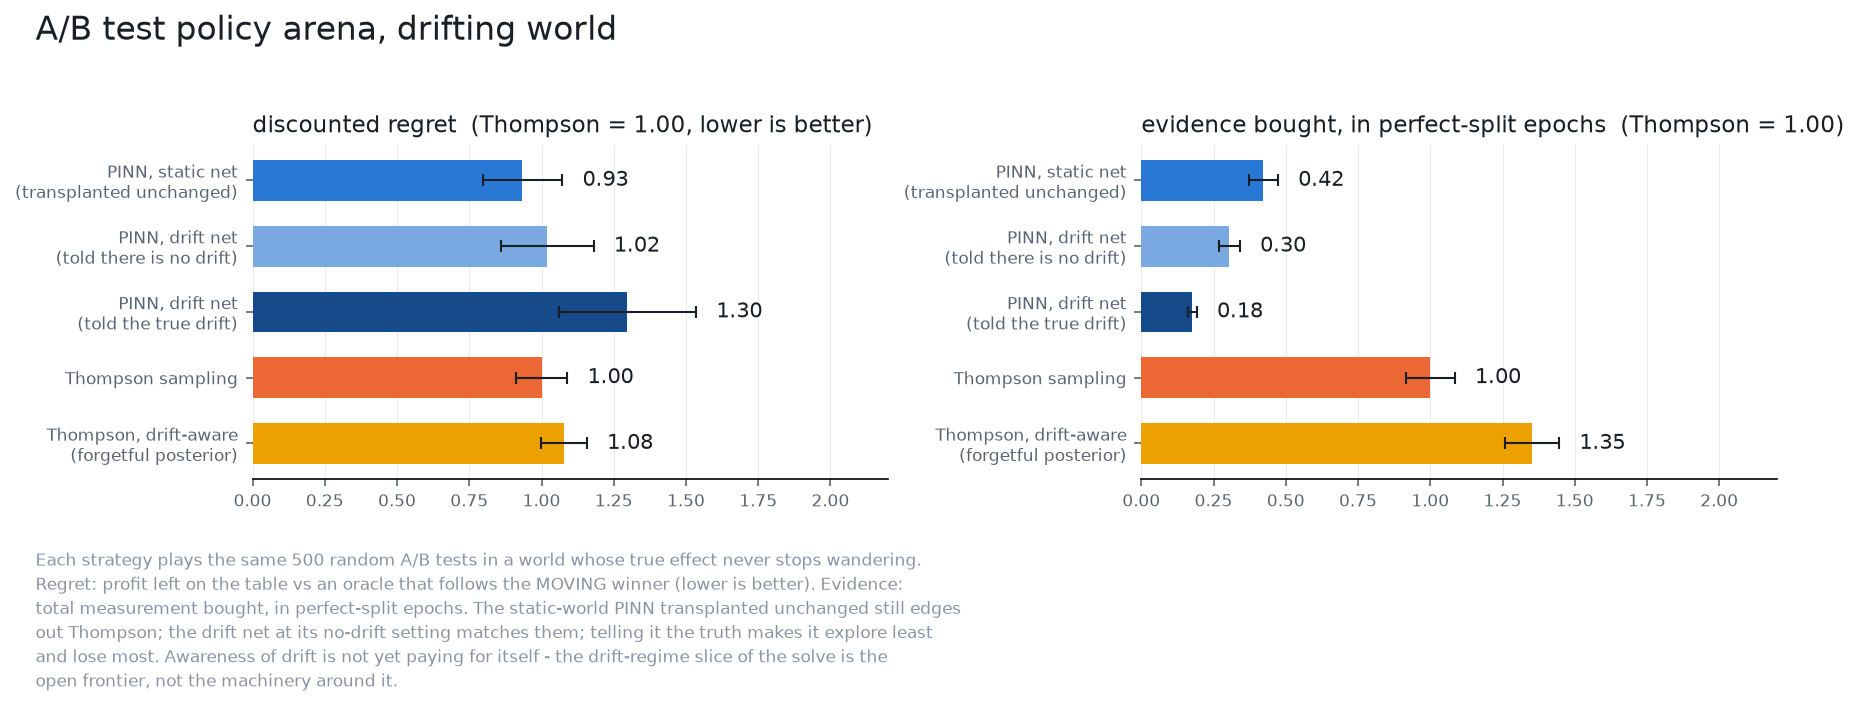
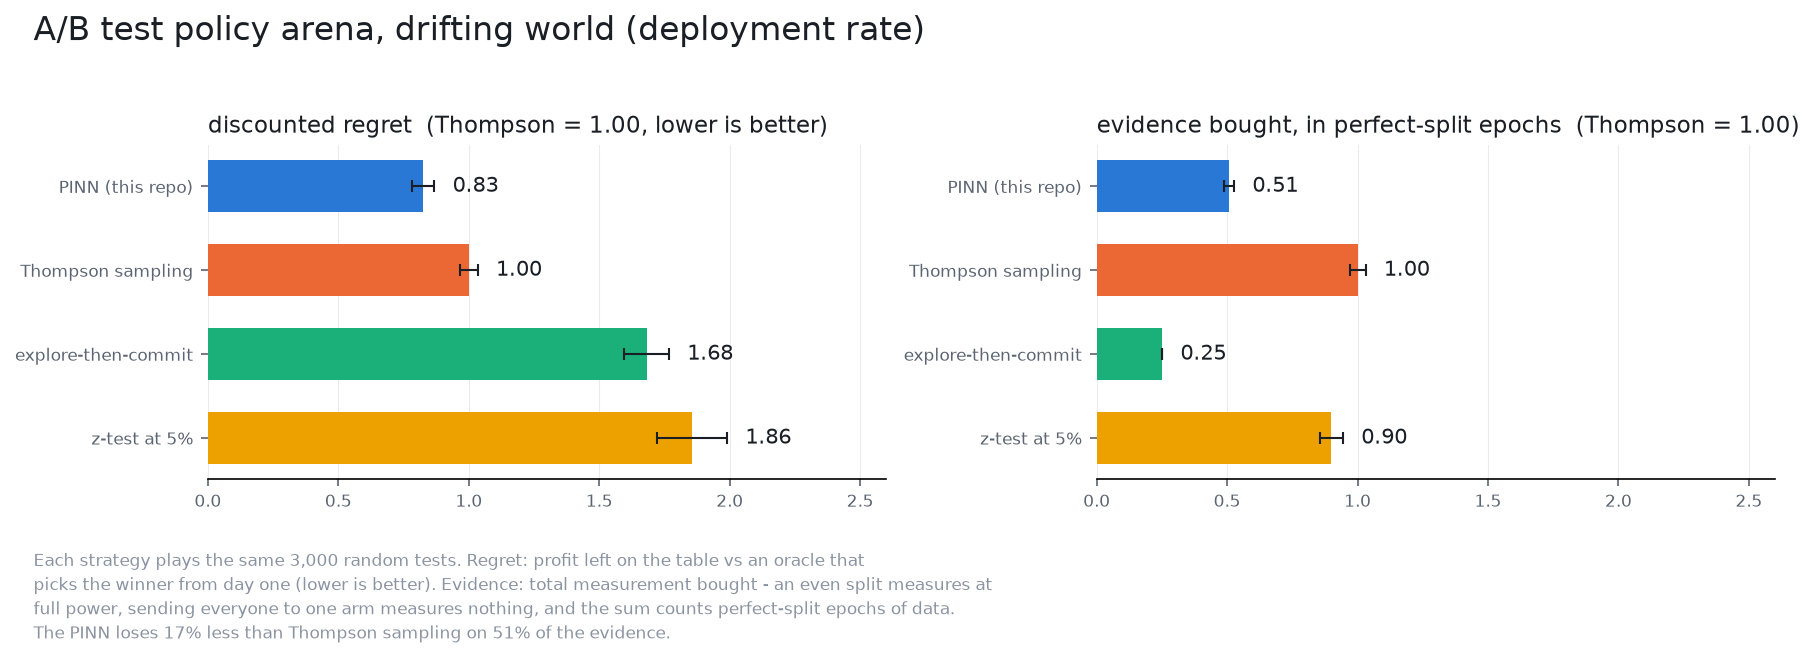
Record the drifting-world arena in docs/
Four studies existed with no plots and no write-up: deployment drift and the
harsh 3x rate, each at both guard settings. docs/drift_arena.md now holds the
tables and both charts, generated from the pickles so no number is
transcribed and none can go stale on its own.

What it records: the PINN wins in BOTH drift worlds, 0.83 at the deployment
rate and 0.85 at harsh 3x, on about half the evidence. CLAUDE.md had the
harsh world down as a loss -- best median, destroyed in the tail -- and that
was the clamped precision input, not the net.

arena_two_arm_drift.png is redrawn from the current champion at the current
guard; the old one was from 2026-08-09 and showed a different net under a
different constant.

diff --git a/docs/drift_arena.md b/docs/drift_arena.md
@@ -1,0 +1,49 @@
+# The drifting world: arena results
+
+Same harness as the static arenas, with the true effect itself diffusing.
+Both worlds use the production parameters; they differ only in the drift
+rate eta.
+3,000 paired reps per policy: every entrant plays the same drawn
+effects and the same noise.
+
+## Deployment rate (eta = 1.3545)
+
+![deployment drift](arena_two_arm_drift.png)
+
+| policy | regret (Thompson = 1.00) | wrong commits | commits | evidence (Thompson = 1.00) |
+|---|---|---|---|---|
+| PINN (this repo) | **0.83** | 10.8% | 100% | **0.51** |
+| Thompson sampling | 1.00 | 0.0% | never | 1.00 |
+| z-test at 5% | 1.86 | 14.0% | 96% | 0.90 |
+| explore-then-commit | 1.68 | 14.0% | 100% | 0.25 |
+
+## Harsh rate, 3x (eta = 4.0635)
+
+The winner flips roughly once per horizon.
+
+![harsh drift](arena_two_arm_drift_harsh.png)
+
+| policy | regret (Thompson = 1.00) | wrong commits | commits | evidence (Thompson = 1.00) |
+|---|---|---|---|---|
+| PINN (this repo) | **0.85** | 16.1% | 100% | **0.51** |
+| Thompson sampling | 1.00 | 0.0% | never | 1.00 |
+| z-test at 5% | 2.00 | 19.8% | 100% | 1.08 |
+| explore-then-commit | 2.72 | 16.5% | 100% | 0.22 |
+
+## The `_FLATTEST_TAUHAT` guard
+
+The arena clamps the net's precision input from below. It was 1e-2 until
+2026-08-13, guarding a low-precision corner the champion of that date no
+longer has. Loosening it to 1e-3 (the sampler's own floor) changes only the
+PINN; every other entrant is byte-identical, which is what makes this a
+controlled comparison.
+
+| world | guard 1e-2 | guard 1e-3 | paired difference |
+|---|---|---|---|
+| deployment | 14,343 | 14,704 | -361 +/- 601 |
+| harsh 3x | 62,414 | 23,661 | +38,753 +/- 3,591 |
+
+In the harsh world the guard cost 62% of the PINN's regret; in the
+deployment world it made no measurable difference. At 1e-2 the PINN lost to
+Thompson under harsh drift (62,414 against 27,771); at 1e-3 it wins,
+23,661 against 27,771, a paired 4,110 +/- 778.
